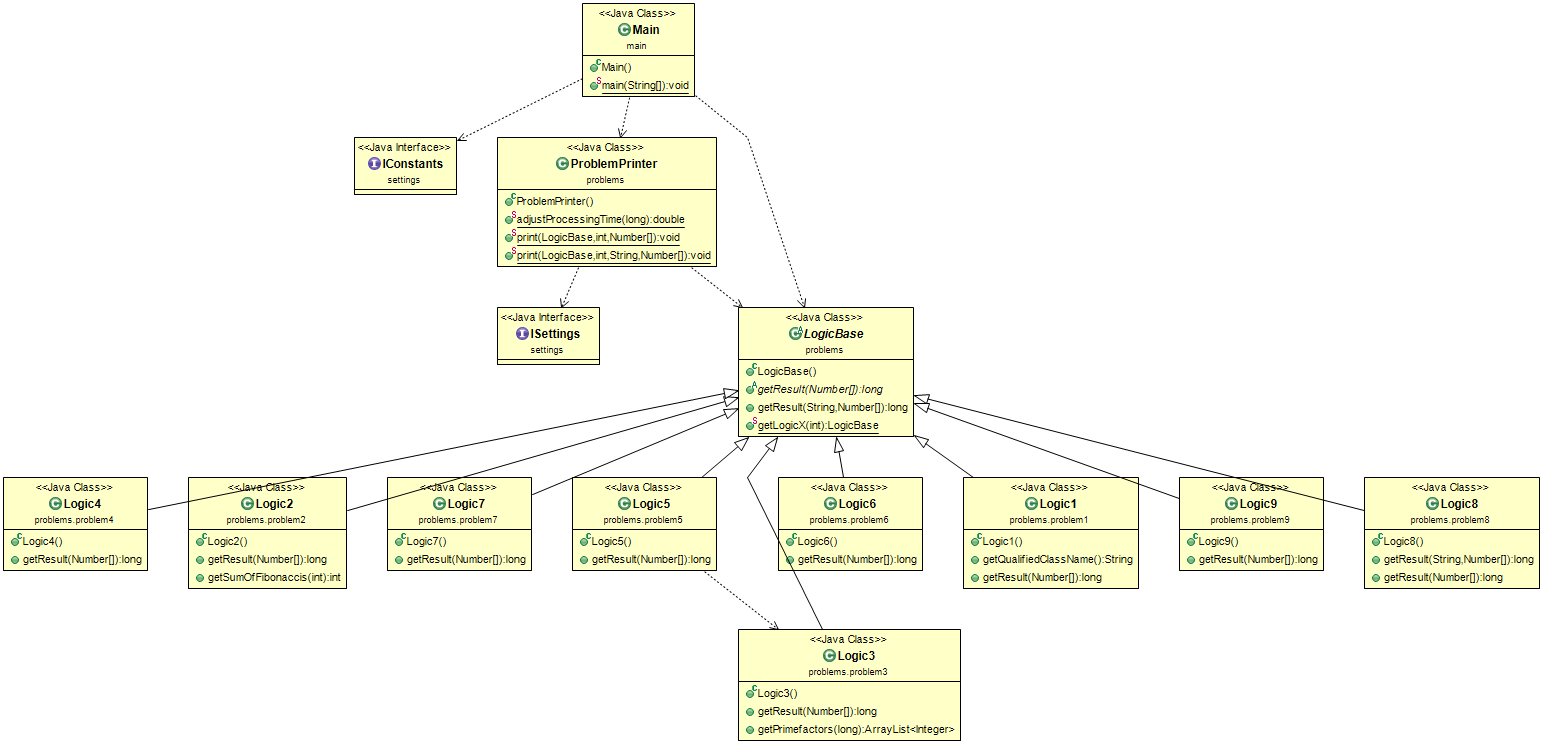
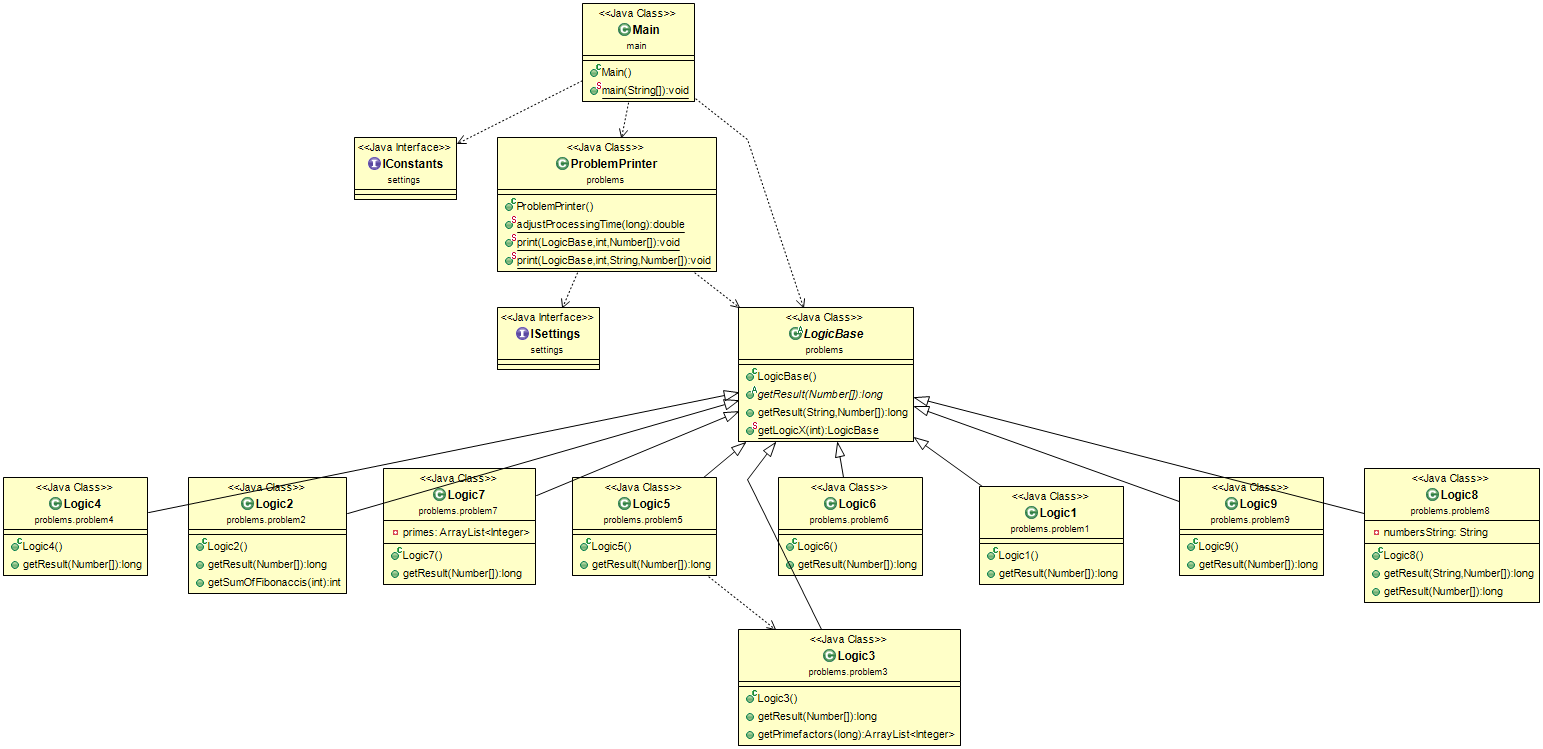
#mod refactoring Logic7, removed private instance variable

diff --git a/ProjectEuler/src/main/java/problems/problem7/Logic7.java b/ProjectEuler/src/main/java/problems/problem7/Logic7.java
@@ -9,20 +9,20 @@ import problems.LogicBase;
 
 public class Logic7 extends LogicBase {
 
-  private ArrayList<Integer> primes; // list of primes to check with whether the number is a prime
+  
 
   @Override
   public long getResult(Number... numbers) {
-    int result = getSpecificPrime(numbers[0].intValue());
+    ArrayList<Integer> primes =  initPrimesArray();
+    int result = getSpecificPrime(primes, numbers[0].intValue());
     return result;
   }
 
-  private int getSpecificPrime(int index) { 
-    initPrimesArray();
+  private int getSpecificPrime(ArrayList<Integer> primes, int index) { 
     int number = 1;
     while (primes.size() < index) {
       number = number + 2;
-      boolean isPrime = isPrime(number);
+      boolean isPrime = isPrime(primes, number);
       if (isPrime) {
         primes.add(number); // if a prime is found it is added to primes
       }
@@ -30,14 +30,13 @@ public class Logic7 extends LogicBase {
     return number;
   }
 
-  private void initPrimesArray() {
-    if (primes == null || primes.size() == 0) {
-      primes = new ArrayList<Integer>();
+  private ArrayList<Integer> initPrimesArray() {
+      ArrayList<Integer> primes = new ArrayList<Integer>();   // list of primes to check with whether the number is a prime
       primes.add(2);
-    }
+      return primes;
   }
 
-  private boolean isPrime(int number) {
+  private boolean isPrime( ArrayList<Integer> primes, int number) {
     boolean isPrime = true;
     for (Integer prime : primes) {
       if (number % prime == 0) {

diff --git a/ProjectEuler/src/main/java/problems/problem8/Logic8.java b/ProjectEuler/src/main/java/problems/problem8/Logic8.java
@@ -35,11 +35,11 @@ import settings.IConstants;
 public class Logic8 extends LogicBase {
 
   private static final Logger logConsole = Logger.getLogger("console");
-  String numbersString;
+  private String problemConstant;
 
   @Override
   public long getResult(String numbersString, Number... numbers) {
-    this.numbersString = numbersString;
+    this.problemConstant = numbersString;
     return getResult(numbers);
   }
   
@@ -47,7 +47,7 @@ public class Logic8 extends LogicBase {
   public long getResult(Number... numbers) {
     long result = 0;
     int intervallSize = numbers[0].intValue();
-    ArrayList<Integer> intArrayList = createIntArrayList(numbersString);
+    ArrayList<Integer> intArrayList = createIntArrayList(problemConstant);
     for (int startIndex = 0; startIndex <= intArrayList.size() - intervallSize; startIndex++) {
       ArrayList<Integer> currentNumbers = createCurrentNumbers(intArrayList, startIndex, intervallSize);
       logConsole.debug("startIndex: " + startIndex);
